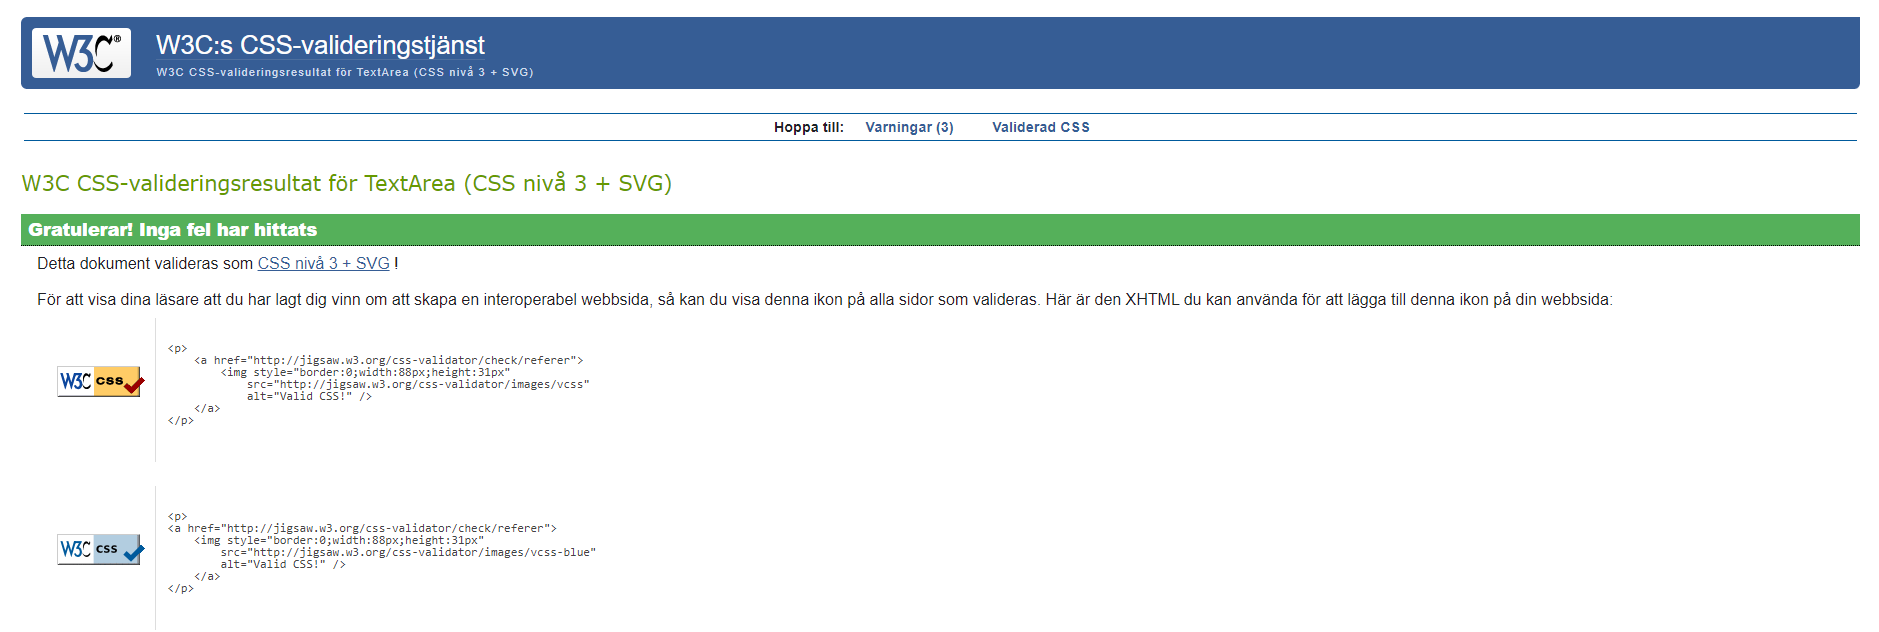
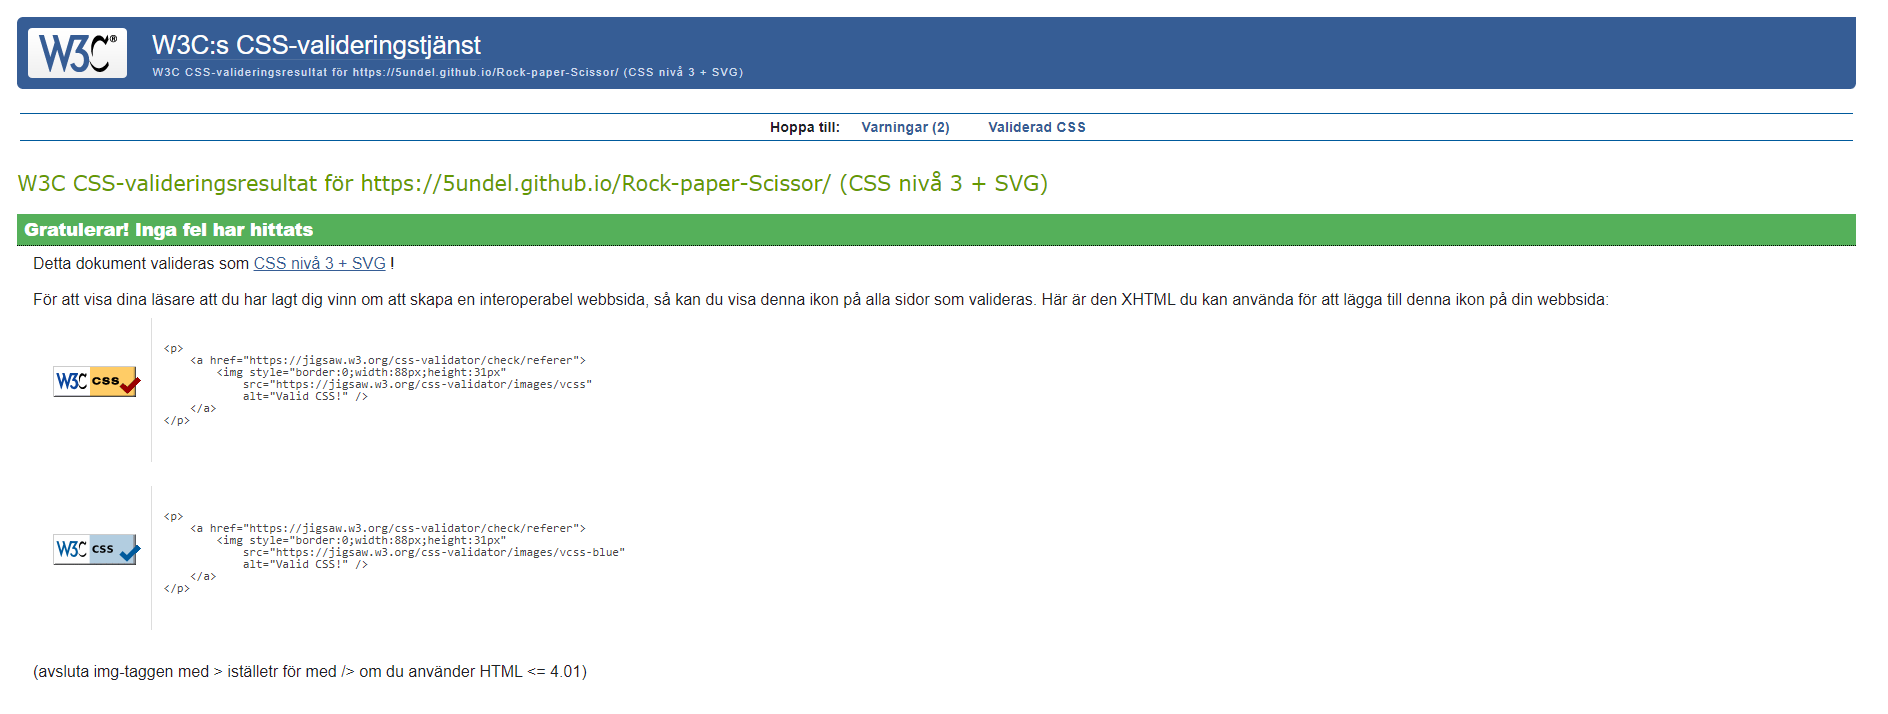
Add css-vali-rps img to doc folder

diff --git a/README.md b/README.md
@@ -30,9 +30,10 @@ __Features__
 ### TEST
 - HTML
   - No errors were found when passing through the validator 
-  - Two warning where found and will be left not to fix.
+  - Tree warning where found and will be left not to fix.
   ![image](document/html-vali-rps.png)
 - CSS 
   - No errors were found when passing through the validator 
   ![image](document/css-vali-rps.png)
+  
 
